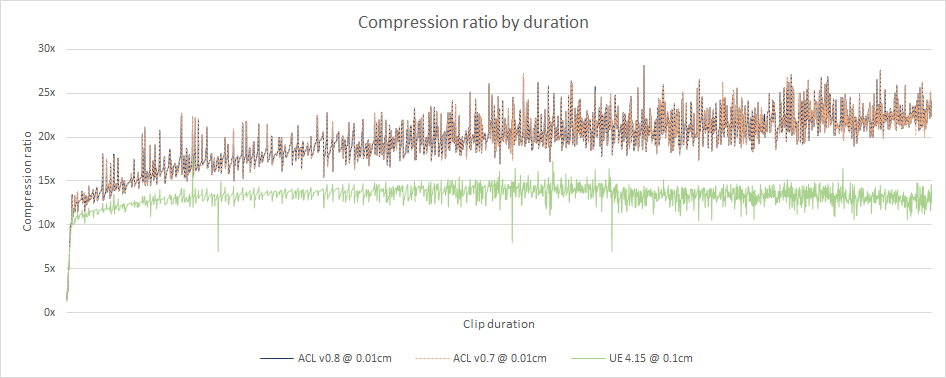
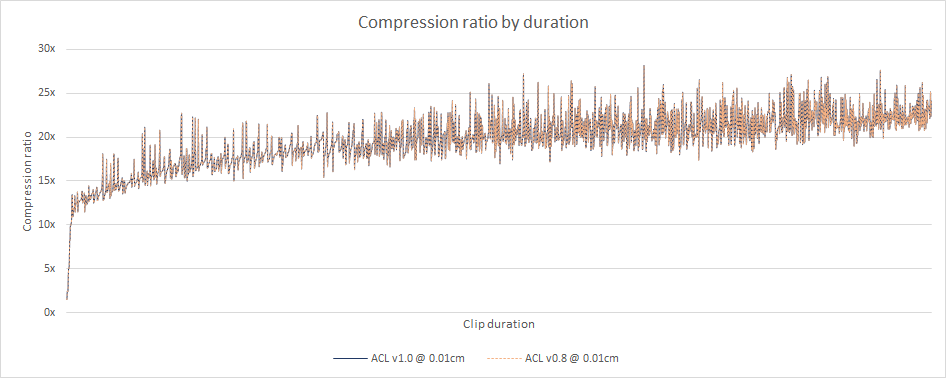
Updating CMU stats. UE4 metrics were removed because they will now be tracked by the plugin.

Changed region(s): [[0.0613, 0.2328, 1.0, 0.6111], [0.3066, 0.9312, 0.7357, 0.9603]]

diff --git a/docs/cmu_performance_history.md b/docs/cmu_performance_history.md
@@ -2,9 +2,19 @@
 
 To compile the statistics, the animation database from [Carnegie-Mellon University](http://mocap.cs.cmu.edu/) is used.
 
+ACL supports various compression methods but only the overall best variant will be tracked here (see `get_default_compression_settings()` for details).
+
 The error is measured **3cm** away from each bone to simulate the visual mesh skinning process as described [here](error_metrics.md).
 
-Statistics for ACL are being generated with the `acl_compressor` tool found [here](../tools/acl_compressor). It supports various compression methods but only the overall best variant will be tracked here. Every clip uses an error threshold of **0.01cm (0.1mm)**.
+## Results from release [1.0.0](https://github.com/nfrechette/acl/releases/tag/v1.0.0):
+
+*  Raw size: **1429.38 MB**
+*  Compressed size: **67.02 MB**
+*  Compression ratio: **21.33 : 1**
+*  Max error: **0.0703** centimeters (clip *83_11*)
+*  Compression time: **37m 13.14s** (single threaded)
+*  Compression time: **10m 11.49s** (multi threaded on 4 cores)
+*  Best variant: Segmented uniform sampling with variable bit rate and range reduction
 
 ## Results from release [0.8.0](https://github.com/nfrechette/acl/releases/tag/v0.8.0):
 
@@ -12,8 +22,8 @@ Statistics for ACL are being generated with the `acl_compressor` tool found [her
 *  Compressed size: **67.02 MB**
 *  Compression ratio: **21.33 : 1**
 *  Max error: **0.0703** centimeters (clip *122_11*)
-*  Compression time: **00h 36m 27.22s** (single threaded)
-*  Compression time: **00h 11m 03.60s** (multi threaded on 4 cores)
+*  Compression time: **36m 27.22s** (single threaded)
+*  Compression time: **11m 03.60s** (multi threaded on 4 cores)
 *  Best variant: Segmented uniform sampling with variable bit rate and range reduction
 
 ## Results from release [0.7.0](https://github.com/nfrechette/acl/releases/tag/v0.7.0):
@@ -22,8 +32,8 @@ Statistics for ACL are being generated with the `acl_compressor` tool found [her
 *  Compressed size: **67.04 MB**
 *  Compression ratio: **21.32 : 1**
 *  Max error: **0.0479** centimeters (clip *81_18*)
-*  Compression time: **00h 51m 24.01s** (single threaded)
-*  Compression time: **00h 13m 38.96s** (multi threaded on 4 cores)
+*  Compression time: **51m 24.01s** (single threaded)
+*  Compression time: **13m 38.96s** (multi threaded on 4 cores)
 *  Best variant: Segmented uniform sampling with variable bit rate and range reduction
 
 ## Results from release [0.6.0](https://github.com/nfrechette/acl/releases/tag/v0.6.0):
@@ -32,8 +42,8 @@ Statistics for ACL are being generated with the `acl_compressor` tool found [her
 *  Compressed size: **67.04 MB**
 *  Compression ratio: **21.32 : 1**
 *  Max error: **0.0479** centimeters (clip *81_18*)
-*  Compression time: **00h 51m 40.20s** (single threaded)
-*  Compression time: **00h 13m 04.58s** (multi threaded on 4 cores)
+*  Compression time: **51m 40.20s** (single threaded)
+*  Compression time: **13m 04.58s** (multi threaded on 4 cores)
 *  Best variant: Segmented uniform sampling with variable bit rate and range reduction
 
 
@@ -55,8 +65,8 @@ Statistics for ACL are being generated with the `acl_compressor` tool found [her
 *  Compressed size: **82.25 MB**
 *  Compression ratio: **12.16 : 1**
 *  Max error: **0.0635** centimeters (clip *144_32*)
-*  Compression time: **00h 50m 38.96s** (single threaded)
-*  Compression time: **00h 05m 27.05s** (multi threaded on 11 cores)
+*  Compression time: **50m 38.96s** (single threaded)
+*  Compression time: **05m 27.05s** (multi threaded on 11 cores)
 *  Best variant: Segmented uniform sampling with variable bit rate and range reduction
 
 *Note: There was a bug in fbx2acl truncating the last sample in 0.3.0 and older versions.*

diff --git a/docs/cmu_performance.md b/docs/cmu_performance.md
@@ -9,42 +9,25 @@ They were converted to the [ACL file format](the_acl_file_format.md) using the [
 *  Total duration: **09h 49m 37.58s**
 *  Raw size: **1429.38 MB** (10x float32 * num bones * num samples)
 
-For ACL and Unreal 4, the error is measured **3cm** away from each bone to simulate the visual mesh skinning process as described [here](error_metrics.md).
+ACL supports various compression methods but only the overall best variant will be tracked here (see `get_default_compression_settings()` for details).
 
-*  [ACL](cmu_performance.md#acl)
-*  [Unreal 4](cmu_performance.md#unreal-4)
-*  [Results in images](cmu_performance.md#results-in-images)
+The error is measured **3cm** away from each bone to simulate the visual mesh skinning process as described [here](error_metrics.md).
 
-# ACL
+The performance of ACL in Unreal Engine 4 is tracked by the plugin [here](https://github.com/nfrechette/acl-ue4-plugin/blob/develop/Docs/cmu_performance.md).
 
-Statistics for ACL are being generated with the `acl_compressor` tool found [here](../tools/acl_compressor). It supports various compression methods but only the overall best variant will be tracked here: variable bit rate with range reduction enabled. Every clip uses an error threshold of **0.01cm (0.1mm)**.
+# Summary
 
 *  Compressed size: **67.02 MB**
 *  Compression ratio: **21.33 : 1**
-*  Max error: **0.0703** centimeters (clip *122_11*)
-*  Compression time: **00h 36m 27.22s** (single threaded)
-*  Compression time: **00h 11m 03.60s** (multi threaded on 4 cores)
+*  Max error: **0.0703** centimeters (clip *83_11*)
+*  Compression time: **37m 13.14s** (single threaded)
+*  Compression time: **10m 11.49s** (multi threaded on 4 cores)
 
 Note that you can compress any number of clips in parallel with multiple threads but each clip uses a single thread for now.
 
-**Results from release [0.8.0](https://github.com/nfrechette/acl/releases/tag/v0.8.0)**
+**Results from release [1.0.0](https://github.com/nfrechette/acl/releases/tag/v1.0.0)**
 
 See [here](cmu_performance_history.md) for a history of performance progress across the various releases.
-
-# Unreal 4
-
-In order to measure statistics in *Unreal 4*, ACL was integrated along with a small [commandlet](../tools/ue4_stats_dump) to run the necessary compression and decompression logic. Everything uses the default values from the automatic compression settings which performs an exhaustive search of the best compression variant. As described [here](http://nfrechette.github.io/2017/01/11/anim_compression_unreal4/), the automatic compression tries many algorithms and settles on the best memory footprint that is also under the desired error threshold. The default error threshold is **1.0cm** but here we used **0.1cm** which is more realistic for production use.
-
-*  Compressed size: **108.00 MB**
-*  Compression ratio: **13.23 : 1**
-*  Max error: **0.0785** centimeters (clip *88_06*)
-*  Compression time: **02h 51m 20.21s** (single threaded)
-
-Sadly the *Unreal 4* compression logic does not *yet* support multi-threading and must be run from the main thread.
-
-*Note: Down-sampling variants were causing issues and were disabled in the interest of keeping things fair. This speeds up the compression time considerably but does not affect the compressed size much.*
-
-**Results from Unreal 4.15.0**
 
 # Results in images
 
